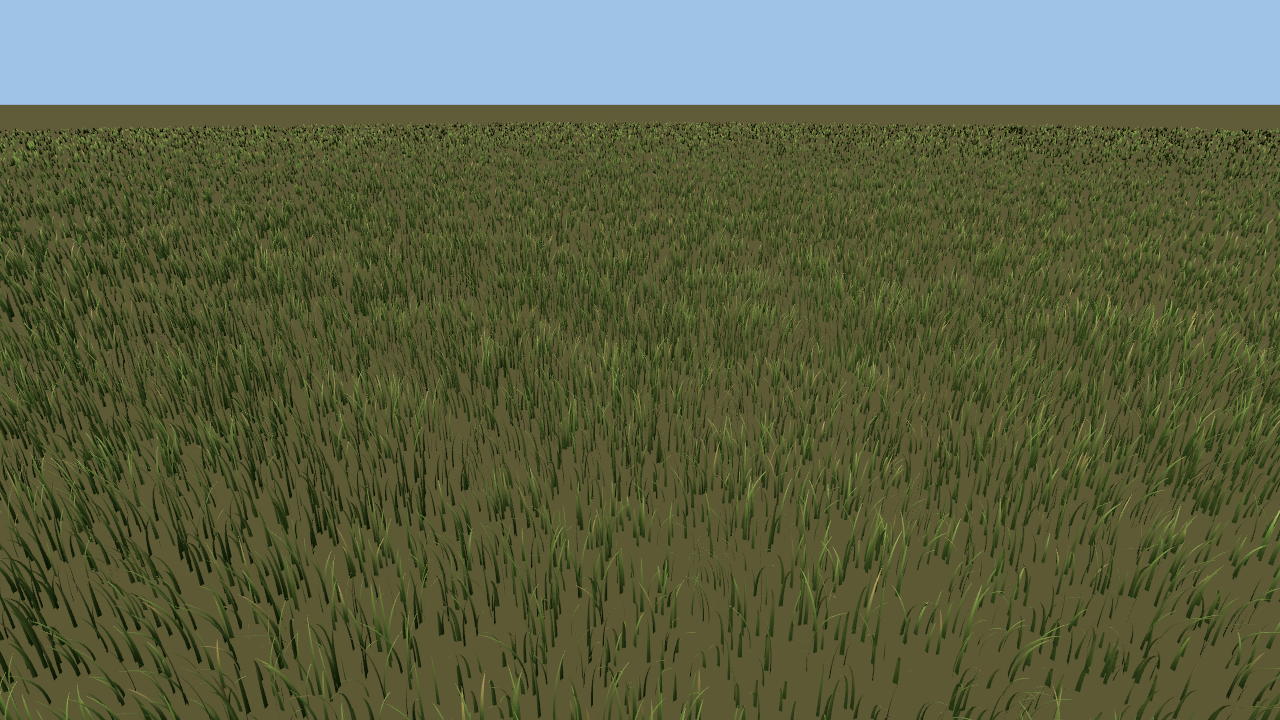
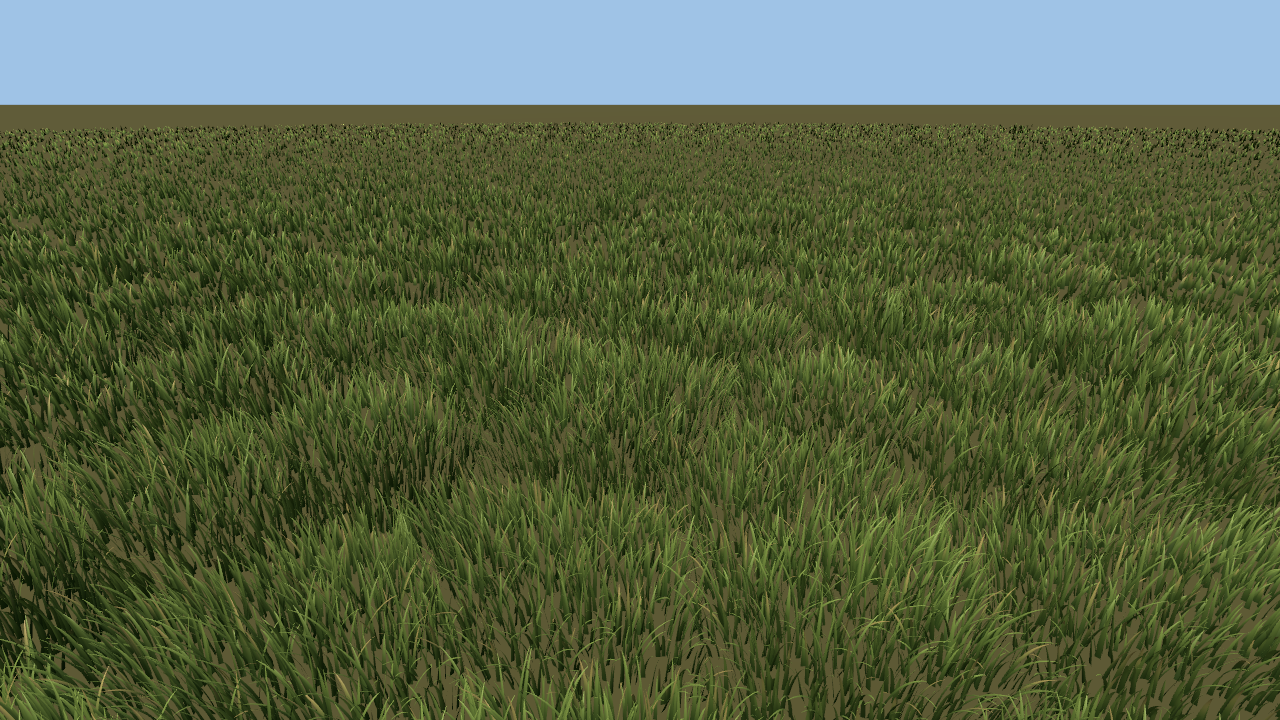
e85a5860 c5: re-shot on the GPU profile (head 20761b65c): the card's meadow closes into one cover
Intent: e85a5860-e6f5-45b1-a488-aaf45d0c717b

Claude-Session: https://claude.ai/code/session_01E9zxn7LT39DWAeJaQz9tJQ

diff --git a/README.md b/README.md
@@ -1,15 +1,16 @@
 # e85a5860 · c4 in avenBOX (no frame of these reaches main)
 
-Shot by `intent-work/e85a5860-shots/run.sh` on `intent/e85a5860-grass-compute@18db9c05b`, in avenBOX's own Chromium in
+Shot by `intent-work/e85a5860-shots/run.sh` on `intent/e85a5860-grass-compute@20761b65c (2026-11-09 23:21, the GPU profile: 4 m near, 3× wider blades)`, in avenBOX's own Chromium in
 software (SwiftShader). The grass is shot alone (`play/site/scripts/grass-shots/harness.js`), drawn into a target and
 read back: a WebGPU canvas never presents in avenBOX's headless Chromium, so no world page can be shot on WebGPU there.
 
 - `meadow-near.png`, three pictures at walking height, near:
   - **main today:** main's Sandbox 1 meadow (14, 81) on WebGL, `main.png` whole: its grass is scattered tufts.
-  - **intent 7's tiles:** the WebGL 2 fallback, 120 blades a m² near. Sends 30,720 / 93,344 / 56,128 instances by level
-    (180,192), most of them sunk or outside the view.
-  - **this branch:** the blades chosen on the card (WebGPU), 180 a m² near. Draws 9,421 / 11,657 / 11,751 by level
-    (32,829).
+  - **intent 7's tiles:** the WebGL 2 fallback (#7's 683c2bb density). Sends 71,424 / 74,304 / 33,536 instances by
+    level (179,264), most of them sunk or outside the view; soil shows between its blades.
+  - **this branch:** the blades chosen on the card (WebGPU), about 600 kept a m² near (c4's measure). Draws 24,106 /
+    15,234 / 12,223 by level (51,563): one closed cover near, thinning with distance.
+- `lane-*.png`: the trodden lane seen from behind its start, 3 m up, before and 0, 3, 6, 10 s after.
 - `trample-strip.png` (before, 0, 3 and 10 s) and `trample-*.png`:
   - A walker crossed 12 m of the meadow at 1.3 m/s, seen beside the walk's end.
   - The trample map was read back along its last 4 m: at most 0.912 at 0 s, 0.371 at 3 s, 0.151 at 6 s and 0.046 at
